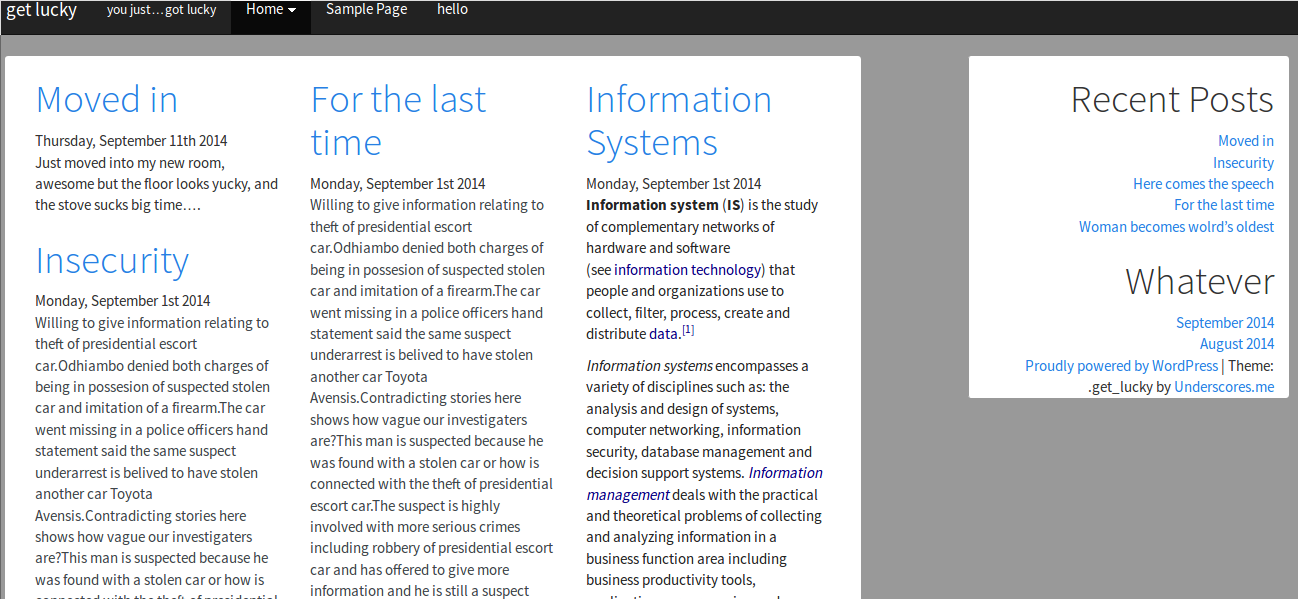
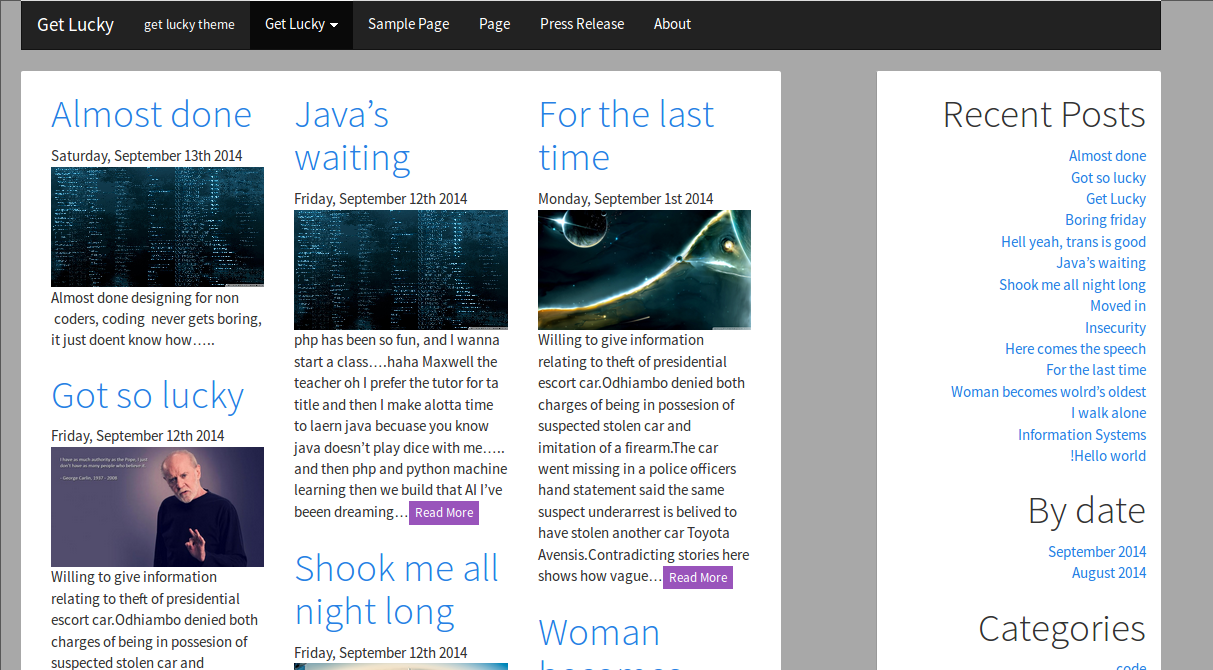
Alotta styling and added support for post thumbnails

diff --git a/style.css b/style.css
@@ -1,9 +1,9 @@
 /*
 Theme Name: get_lucky
 Theme URI: http://underscores.me/
-Author: Underscores.me
-Author URI: http://underscores.me/
-Description: Description
+Author: Maxwell Mandela
+Author URI: 24th.96.lt/
+Description: Multicolumn minimalist wordpress theme, will completely change the look of your blog, and yourself. Look nice with your posts and everything. Since blogging is business
 Version: 1.0-wpcom
 License: GNU General Public License v2 or later
 License URI: http://www.gnu.org/licenses/gpl-2.0.html
@@ -43,4 +43,9 @@ article h1, #content.page h1 {
 .grid{
 	background-color: white;
 	border-radius: 2px;
+}
+
+.footerContent{
+	background-color:#121212;
+	border-radius: 1px;
 }

diff --git a/js/scroll.js b/js/scroll.js
@@ -1,0 +1,12 @@
+$('a[href^="#"]').on('click', function(event) {
+
+    var target = $( $(this).attr('href') );
+
+    if( target.length ) {
+        event.preventDefault();
+        $('html, body').animate({
+            scrollTop: target.offset().top
+        }, 1000);
+    }
+
+});

diff --git a/functions.php b/functions.php
@@ -103,7 +103,7 @@ if ( function_exists('register_sidebar') ) {
 //footer widget areas
 if ( function_exists('register_sidebar') ) {
     register_sidebar(array(
-        'name'          => __( 'Footer Widget area', 'get_lucky' ),
+        'name'          => __( 'First Footer Widget area', 'get_lucky' ),
         'id'            => 'footer1',
         'class'         =>'First footer widget area',
         'description'   => 'For anything suitable, like newslater sign up',
@@ -116,7 +116,7 @@ if ( function_exists('register_sidebar') ) {
 
 if ( function_exists('register_sidebar') ) {
     register_sidebar(array(
-        'name'          => __( 'Footer Widget area', 'get_lucky' ),
+        'name'          => __( 'Second Footer Widget area', 'get_lucky' ),
         'id'            => 'footer2',
         'class'         =>'Second footer widget area',
         'before_widget' => '<aside id="%1$s" class="widget %2$s">',
@@ -128,16 +128,15 @@ if ( function_exists('register_sidebar') ) {
 
 if ( function_exists('register_sidebar') ) {
     register_sidebar(array(
-        'name'          => __( 'Footer Widget area', 'get_lucky' ),
+        'name'          => __( 'Third Footer Widget area', 'get_lucky' ),
         'id'            => 'footer3',
-        'class'         =>'Third footer widget area',
+        'class'         =>'Second footer widget area',
         'before_widget' => '<aside id="%1$s" class="widget %2$s">',
         'after_widget'  => '</aside>',
         'before_title'  => '<h1 class="widget-title">',
         'after_title'   => '</h1>',
     ) );
 }
-
 
 
 add_action( 'widgets_init', 'get_lucky_widgets_init' );

diff --git a/index.php b/index.php
@@ -27,6 +27,9 @@ get_header(); ?>
                         <h1><a  class="titlePost" href="<?php the_permalink(); ?>" rel="bookmark" title="<?php the_title(); ?>"><?php the_title(); ?></a></h1>
                         <div class="descr"><?php the_time('l, F jS Y '); ?></div>
                         <div class="entry">
+                            <?php if(has_post_thumbnail()){
+                                ?> <img class="img-responsive" scr="<?php the_post_thumbnail();?> <?php
+                            } ?>
                           <?php the_excerpt(); ?>
                         </div>
                       </div>
@@ -51,10 +54,9 @@ get_header(); ?>
 	
 		<?php get_sidebar('primary');?>
 		 <?php get_footer(); ?>
-		
-		
-<div class="container" style="margin-top: 30px;">
-    <div class="col-sm-4 grid"><?php get_sidebar('footer1')?></div>
-    <div class="col-sm-4 grid"><?php get_sidebar('footer2')?></div>
-    <div class="col-sm-3 col-sm-offset-1 grid"><?php get_sidebar('footer3')?></div>
+			
+<div class="container-fluid footerContent" style="margin-top: 30px;" id="about">
+    <div class="col-sm-4"><?php get_sidebar('footer1')?></div>
+    <div class="col-sm-4"><?php get_sidebar('footer2')?></div>
+    <div class="col-sm-4"><?php get_sidebar('footer3')?></div>
     

diff --git a/single.php b/single.php
@@ -9,21 +9,24 @@ get_header(); ?>
 
 	
 
-		<?php while ( have_posts() ) : the_post(); ?>
-
+		<?php  while ( have_posts() ) : the_post(); ?>
+                <?php if(has_post_thumbnail()){
+                                ?> <img style="margin-top: 10px;" class="img-responsive" scr="<?php the_post_thumbnail();?> <?php
+                    } ?>
 			<?php get_template_part( 'content', 'single' ); ?>
 
 			<?php get_lucky_post_nav(); ?>
 
-			<?php
-				// If comments are open or we have at least one comment, load up the comment template
-				//if ( comments_open() || '0' != get_comments_number() ) :
-					//comments_template();
-				//endif;
+			<?php/*
+				If comments are open or we have at least one comment, load up the comment template
+				if ( comments_open() || '0' != get_comments_number() ) :
+					comments_template();
+				endif;
+         * */
 			?>
 
-		<?php endwhile; // end of the loop. ?>
-
+		<?php endwhile; //end of the loop. ?>
+		
 </div><!-- #primary -->
 
 		<?php get_sidebar(); ?>

diff --git a/archive.php b/archive.php
@@ -86,8 +86,10 @@ get_header(); ?>
                         <h1><a href="<?php the_permalink(); ?>" rel="bookmark" title="<?php the_title(); ?>"><?php the_title(); ?></a></h1>
                         <div class="descr"><?php the_time('l, F jS Y '); ?></div>
                         <div class="entry">
+                            <?php if(has_post_thumbnail()){
+                                ?> <img style="margin-top: 10px;" class="img-responsive" scr="<?php the_post_thumbnail();?> <?php
+                            } ?>
                           <?php the_excerpt(); ?>
-                          <a href="<?php the_permalink();?>">Read More</a>
                         </div>
                       </div>
                     

diff --git a/header.php b/header.php
@@ -17,14 +17,15 @@
 
 <script src="../js/jquery-1.11.1.min.js"></script>
 <script src="../../../../js/bootstrap.min.js"></script>
+<script src="js/scroll.js"></script>
 
 <?php wp_head(); ?>
 </head>
 
-<body <?php body_class(); ?> style="bbackground-color: #999">
+<body <?php body_class(); ?>>
 	<?php do_action( 'before' );  ?>
 
-<nav class="site-navigation">		
+<nav class="site-navigation container">		
 				<div class="navbar navbar-default">
 					<div class="navbar-header">
 				    <!-- .navbar-toggle is used as the toggle for collapsed navbar content -->
@@ -55,7 +56,5 @@
 				
 				</div><!-- .navbar -->
 </nav><!-- .site-navigation -->
-
-
 	<div class="container">
 		<div class="col-sm-8 grid">

diff --git a/sidebar-primary.php b/sidebar-primary.php
@@ -1,6 +1,6 @@
 <div class="col-sm-3 col-sm-offset-1 grid" style="border-left:solid #999 1px; 
 direction: rtl;
-height:100%;">
+height:auto;">
 
 <div id="sidebar"><ul>
 	<?php if ( !function_exists('dynamic_sidebar') || !dynamic_sidebar('primary') ) : ?> 
